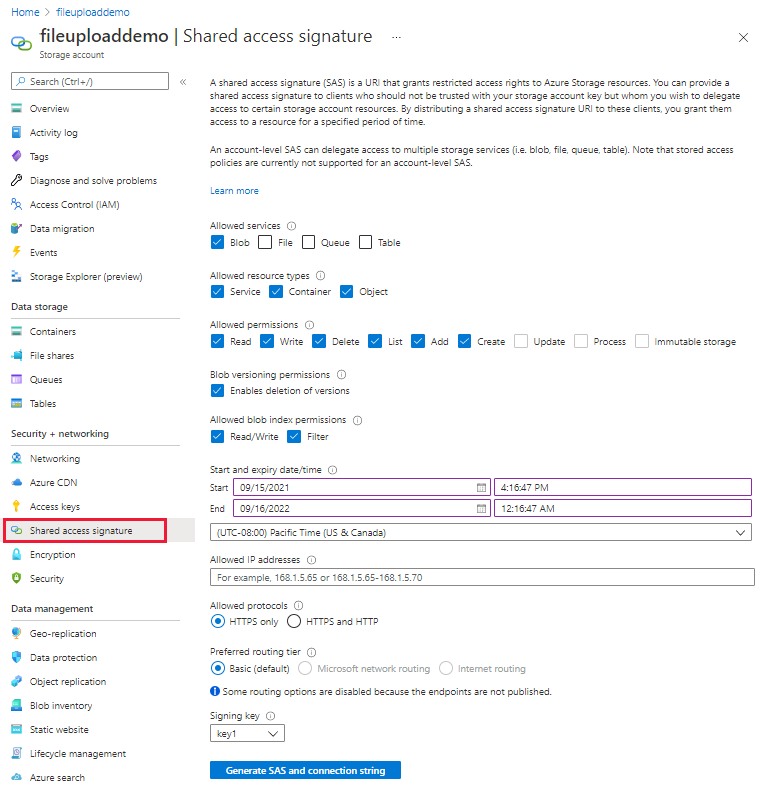
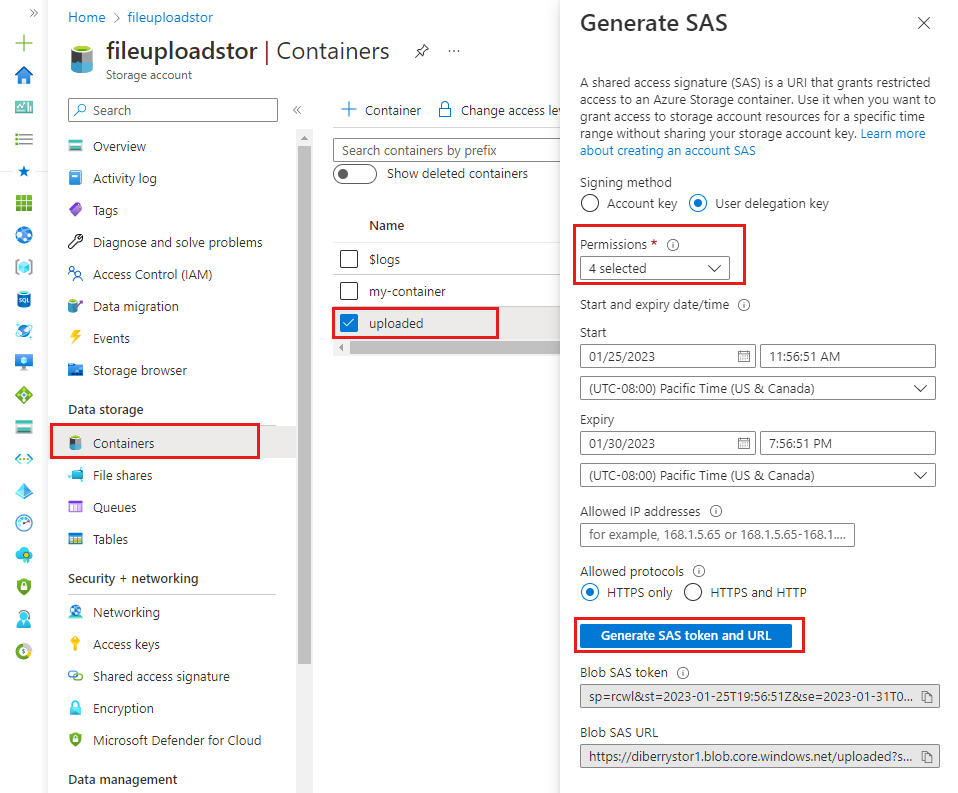
updated for sas token

Changed region(s): [[0.0, 0.0, 1.0, 0.9987], [0.5938, 0.0, 0.75, 0.0605], [0.5, 0.3026, 0.5312, 0.3329]]

diff --git a/articles/javascript/tutorial/browser-file-upload-azure-storage-blob.md b/articles/javascript/tutorial/browser-file-upload-azure-storage-blob.md
@@ -169,7 +169,7 @@ The sample React app consists of the following elements:
 
     |Property|Value|
     |--|--|
-    |Enter a globally unique name for the new web app.| Enter a value such as `fileuploaddemo`, for your Storage resource name.<br><br> This unique name is **your resource name** used in the next section. Use only characters and numbers, up to 24 in length. You need this **account name** to use later.|
+    |Enter a globally unique name for the new web app.| Enter a value such as `fileuploadstor`, for your Storage resource name.<br><br> This unique name is **your resource name** used in the next section. Use only characters and numbers, up to 24 in length. You need this **account name** to use later.|
 
 1. When the app creation process is complete, a notification appears with information about the new resource. 
 
@@ -177,28 +177,31 @@ The sample React app consists of the following elements:
 
 ## 5. Generate your shared access signature (SAS) token 
 
-Generate the SAS token before configuring CORS. 
+Generate the [user-delegated SAS token](/rest/api/storageservices/create-user-delegation-sas#revoke-a-user-delegation-sas) before configuring CORS. The **user-delegated SAS token** is recommended:
+
+* To implement least priviledge access 
+* To minimize access time range to 7 days or less. 
+* To reduce burden of leaked key from key rotation to [revoking SAS token](/rest/api/storageservices/create-user-delegation-sas#revoke-a-user-delegation-sas)
 
 1. In the Visual Studio Code extension for Storage, right-click the resource then select **Open in Portal**. This opens the Azure portal to your exact Storage resource.
-1. In the **Security + networking** section, select **Shared access signature**. 
-1. Configure the SAS token with the following settings. 
+1. Create a container named **uploaded**. 
+1. Select the container then right click the row and select **Generate SAS**.
+
+    :::image type="content" source="../media/tutorial-browser-file-upload/azure-portal-storage-blob-generate-container-sas-token.png" alt-text="Screenshot of Azure portal with the container's right-click menu showing, with Generate SAS highlighted.":::
+
+1. Configure the container SAS token with the following settings. 
 
     | Property|Value|
     |--|--|
-    |Allowed services|Blob|
-    |Allowed resource types|Service, Container, Object|
-    |Allowed permissions|Read, write, delete, list, add, create|
-    |Blob versioning permissions|Checked|
-    |Allow blob index permissions|Read/Write and Filter should be checked|
-    |Start and expiry date/time|Accept the start date/time and **set the end date time 24 hours in the future**. Your SAS token is only good for 24 hours.|
+    |Signing method|User delegation key|
+    |Allowed permissions|Read, create, write, list|
+    |Start and expiry date/time|Accept the start date/time and **set the end date time 24 hours in the future**. Your user-delgated SAS token is only good for a maximum of 7 days.|
     |HTTPS only|Selected|
-    |Preferred routing tier|Basic|
-    |Signing Key|key1 selected|
 
-    :::image type="content" source="../media/tutorial-browser-file-upload/azure-portal-storage-blob-generate-sas-token.png" alt-text="Configure the SAS token as show in the image. The settings are explained below the image.":::
+    :::image type="content" source="../media/tutorial-browser-file-upload/azure-portal-storage-blob-generate-sas-token.png" alt-text="Screenshot of Azure portal for Azure Storage, configuring the user-delegated SAS token":::
 
-1. Select **Generate SAS and connection string**. 
-1. Immediately copy the SAS token. You won't be able to list this token so if you don't have it copied, you will need to generate a new SAS token. 
+1. Select **Generate SAS and URL**. 
+1. Immediately copy the **Blob SAS token**. You won't be able to list this token so if you don't have it copied, you will need to regenerate a new SAS token. 
 
 <a name="set-sas-token-in-code-file"></a>
 
@@ -209,8 +212,8 @@ The SAS token is used when queries are made to your cloud-based resource.
 1. Add two required variables with their storage values:
 
     ```text
-    REACT_APP_STORAGESASTOKEN=
-    REACT_APP_STORAGERESOURCENAME=
+    REACT_APP_AZURE_STORAGE_SAS_TOKEN=
+    REACT_APP_AZURE_STORAGE_RESOURCE_NAME=
     ```
 
     React builds the static files with these variables.
@@ -235,6 +238,8 @@ Configure CORS for your resource so the client-side React code can access your s
     |Max age|86400|
 
     :::image type="content" source="../media/tutorial-browser-file-upload/azure-portal-storage-blob-cors.png" alt-text="Configure CORS as show in the image. The settings are explained below the image.":::
+
+    Once the application is deployed, you returned to this CORS form to add the URL for the static web app.
 
 1. Select **Save** above the settings to save them to the resource. The code doesn't require any changes to work with these CORS settings. 
 
